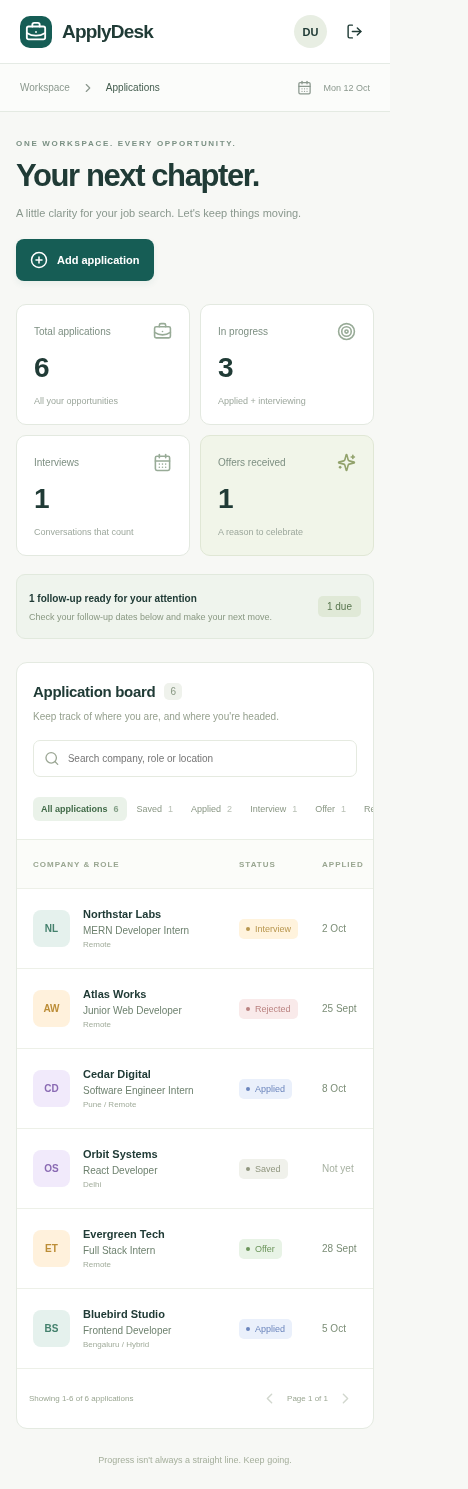
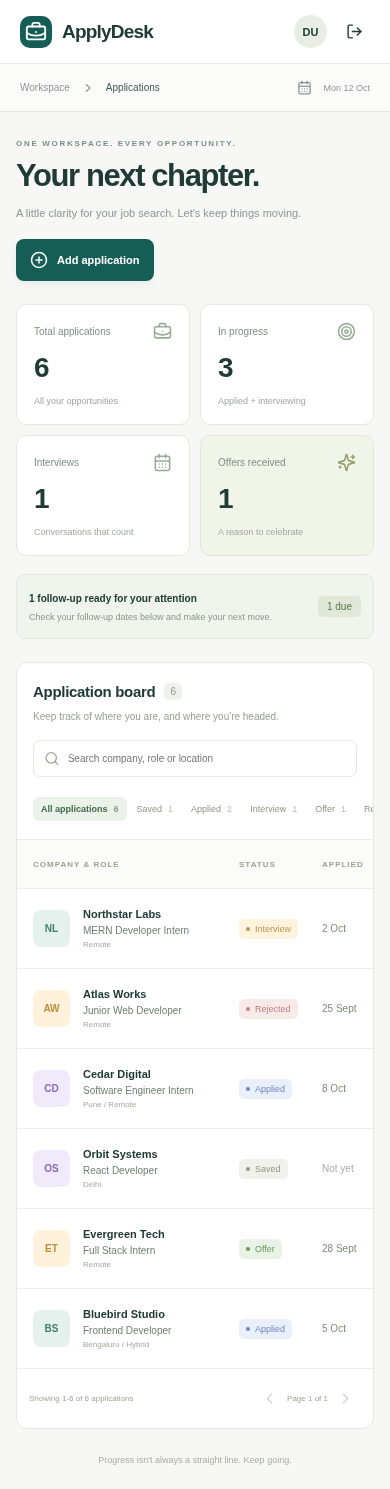
fix(ui): contain mobile screen-reader label and wait for filter results

diff --git a/client/src/styles.css b/client/src/styles.css
@@ -1061,5 +1061,12 @@ td:first-child {
   }
 }
 /* Keep narrow viewports from widening to the table's intrinsic width. */
-.main, .applications { min-width: 0; }
-.table-wrap { width: 100%; max-width: 100%; }
+.main,
+.applications {
+  min-width: 0;
+}
+.table-wrap {
+  position: relative;
+  width: 100%;
+  max-width: 100%;
+}
